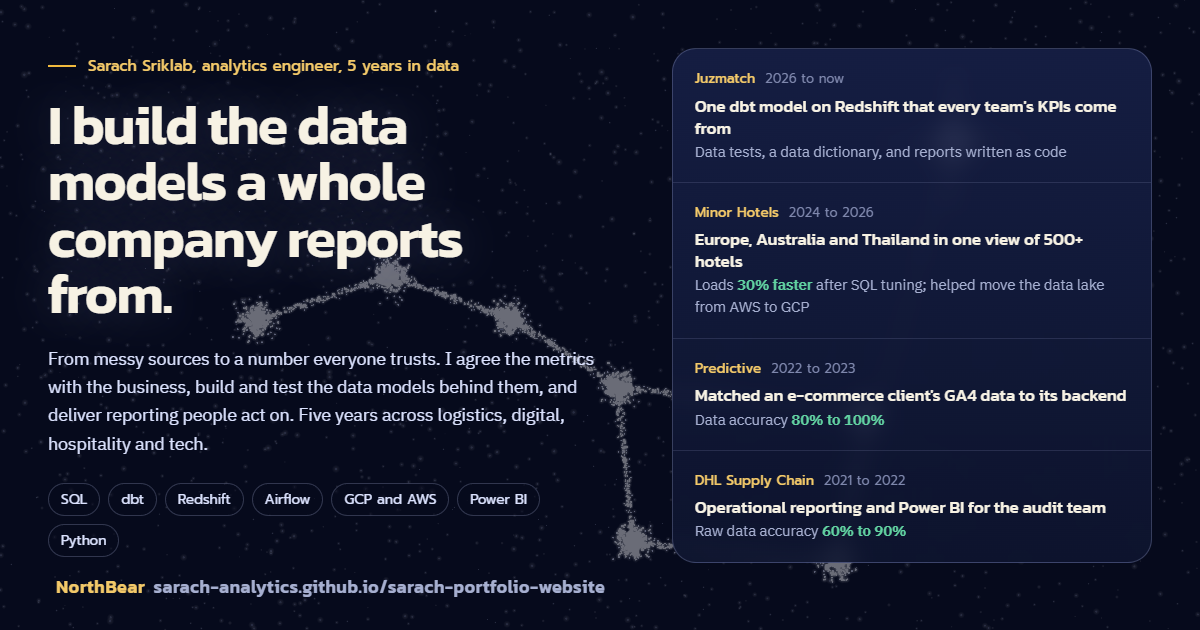
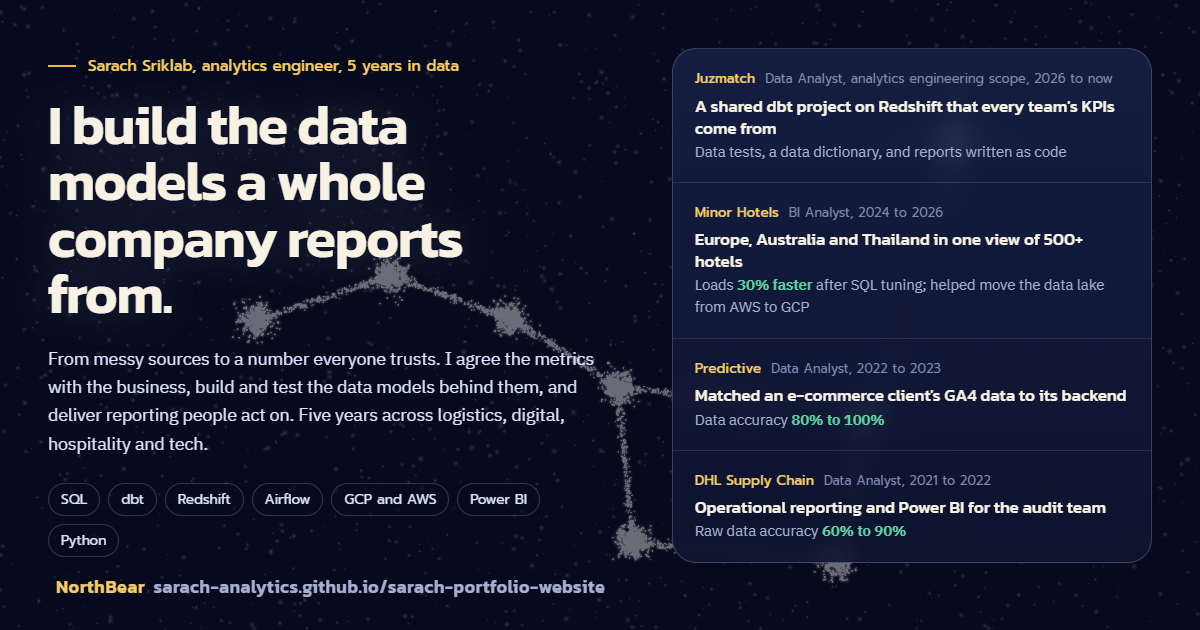
Fix credibility issues from the hiring and technical reviews
- "dbt project", not "one dbt model"; real job titles beside each job,
  Juzmatch shown as Data Analyst with analytics engineering scope
- Data story: booking-night grain, commission rate kept on the channel
  table, sold <= available test, a real duplicate case, matching SQL
- Story maths now answers the question: Net RevPAR shown, commission
  checked year over year (same mix, same rate), costs named as outside
  the data
- Phones see the work list right after the claim
- 500+ hotels on the CV too; hiring email matches the CV

diff --git a/index.html b/index.html
@@ -49,10 +49,10 @@
         </div>
       </div>
       <ol class="ledger hero-in" aria-label="Work history">
-        <li><span class="co">Juzmatch <small><span class="en">2026 to now</span><span class="th">2026 ถึงปัจจุบัน</span></small></span><b><span class="en">One dbt model on Redshift that every team's KPIs come from</span><span class="th">dbt model เดียวบน Redshift ที่ KPI ของทุกทีมมาจากที่นี่</span></b><span class="res"><span class="en">Data tests, a data dictionary, and reports written as code</span><span class="th">มี data test, data dictionary และรายงานที่เขียนเป็นโค้ด</span></span></li>
-        <li><span class="co">Minor Hotels <small>2024 <span class="en">to</span><span class="th">ถึง</span> 2026</small></span><b><span class="en">Europe, Australia and Thailand in one view of 500+ hotels</span><span class="th">ยุโรป ออสเตรเลีย และไทย รวมในรายงานเดียวของโรงแรม 500+ แห่ง</span></b><span class="res"><span class="en">Loads <em>30% faster</em> after SQL tuning; helped move the data lake from AWS to GCP</span><span class="th">โหลดเร็วขึ้น <em>30%</em> หลังปรับ SQL และช่วยย้าย data lake จาก AWS ไป GCP</span></span></li>
-        <li><span class="co">Predictive <small>2022 <span class="en">to</span><span class="th">ถึง</span> 2023</small></span><b><span class="en">Matched an e-commerce client's GA4 data to its backend</span><span class="th">จับคู่ข้อมูล GA4 ของลูกค้า e-commerce กับระบบหลังบ้าน</span></b><span class="res"><span class="en">Data accuracy <em>80% to 100%</em></span><span class="th">ความถูกต้องของข้อมูล <em>80% เป็น 100%</em></span></span></li>
-        <li><span class="co">DHL Supply Chain <small>2021 <span class="en">to</span><span class="th">ถึง</span> 2022</small></span><b><span class="en">Operational reporting and Power BI for the audit team</span><span class="th">ระบบรายงานงานปฏิบัติการ และ Power BI ให้ทีม audit</span></b><span class="res"><span class="en">Raw data accuracy <em>60% to 90%</em></span><span class="th">ความถูกต้องของข้อมูลดิบ <em>60% เป็น 90%</em></span></span></li>
+        <li><span class="co">Juzmatch <small><span class="en">Data Analyst, analytics engineering scope, 2026 to now</span><span class="th">Data Analyst งานสาย analytics engineering 2026 ถึงปัจจุบัน</span></small></span><b><span class="en">A shared dbt project on Redshift that every team's KPIs come from</span><span class="th">dbt project กลางบน Redshift ที่ KPI ของทุกทีมมาจากที่นี่</span></b><span class="res"><span class="en">Data tests, a data dictionary, and reports written as code</span><span class="th">มี data test, data dictionary และรายงานที่เขียนเป็นโค้ด</span></span></li>
+        <li><span class="co">Minor Hotels <small>BI Analyst, 2024 <span class="en">to</span><span class="th">ถึง</span> 2026</small></span><b><span class="en">Europe, Australia and Thailand in one view of 500+ hotels</span><span class="th">ยุโรป ออสเตรเลีย และไทย รวมในรายงานเดียวของโรงแรม 500+ แห่ง</span></b><span class="res"><span class="en">Loads <em>30% faster</em> after SQL tuning; helped move the data lake from AWS to GCP</span><span class="th">โหลดเร็วขึ้น <em>30%</em> หลังปรับ SQL และช่วยย้าย data lake จาก AWS ไป GCP</span></span></li>
+        <li><span class="co">Predictive <small>Data Analyst, 2022 <span class="en">to</span><span class="th">ถึง</span> 2023</small></span><b><span class="en">Matched an e-commerce client's GA4 data to its backend</span><span class="th">จับคู่ข้อมูล GA4 ของลูกค้า e-commerce กับระบบหลังบ้าน</span></b><span class="res"><span class="en">Data accuracy <em>80% to 100%</em></span><span class="th">ความถูกต้องของข้อมูล <em>80% เป็น 100%</em></span></span></li>
+        <li><span class="co">DHL Supply Chain <small>Data Analyst, 2021 <span class="en">to</span><span class="th">ถึง</span> 2022</small></span><b><span class="en">Operational reporting and Power BI for the audit team</span><span class="th">ระบบรายงานงานปฏิบัติการ และ Power BI ให้ทีม audit</span></b><span class="res"><span class="en">Raw data accuracy <em>60% to 90%</em></span><span class="th">ความถูกต้องของข้อมูลดิบ <em>60% เป็น 90%</em></span></span></li>
       </ol>
     </div>
   </section>
@@ -81,7 +81,7 @@
               <blockquote class="quote"><span class="en">"We sold more rooms this year. So why isn't more money left over?"</span><span class="th">"ปีนี้ขายห้องได้มากขึ้น แต่ทำไมเงินเหลือไม่มากขึ้น"</span></blockquote>
               <p><span class="en">My first job is to turn that into something we can measure. Here is the raw material: every room night sold in the last 12 months.</span><span class="th">งานแรกของผมคือเปลี่ยนคำถามนี้ให้เป็นสิ่งที่วัดได้ และนี่คือวัตถุดิบ: ห้องพักทุกคืนที่ขายได้ใน 12 เดือนล่าสุด</span></p>
               <div class="split">
-                <div><span class="who me"><span class="en">Me</span><span class="th">ผม</span></span><span class="en">Picked the metric: room revenue after booking commission. Revenue alone hides what it cost to win the guest.</span><span class="th">เลือก metric คือรายได้ห้องหลังหักค่าคอมมิชชัน เพราะรายได้อย่างเดียวซ่อนต้นทุนการได้ลูกค้ามา</span></div>
+                <div><span class="who me"><span class="en">Me</span><span class="th">ผม</span></span><span class="en">Picked the metric: Net RevPAR, room revenue after booking commission per available room. Revenue alone hides what it cost to win the guest. Staff and other costs come later, from the P&amp;L.</span><span class="th">เลือก metric คือ Net RevPAR รายได้ห้องหลังหักค่าคอมมิชชันต่อห้องที่ว่างขาย เพราะรายได้อย่างเดียวซ่อนต้นทุนการได้ลูกค้ามา ส่วนค่าพนักงานและต้นทุนอื่นดูทีหลังจากงบกำไรขาดทุน</span></div>
                 <div class="ai-side"><span class="who ai">AI</span><span class="en">Listed eight candidate metrics. Most measured volume, not what is left over, so I cut them.</span><span class="th">ลิสต์ metric มา 8 ตัว ส่วนใหญ่วัดปริมาณ ไม่ได้วัดเงินที่เหลือ ผมเลยตัดออก</span></div>
               </div>
             </div>
@@ -93,13 +93,13 @@
               <h3><span class="en">The export is messy. AI drafts the clean-up, I check it.</span><span class="th">ไฟล์ export รก AI ร่างวิธีล้าง ผมตรวจ</span></h3>
               <p><span class="en">Dates in three formats, prices saved as text, a night counted twice, channel names spelled four ways. Once it is clean, every night fits in its square: one dot for each of the 30 rooms sold. Point at a night.</span><span class="th">วันที่ 3 รูปแบบ ราคาเก็บเป็นข้อความ คืนเดียวนับซ้ำ ชื่อช่องทางสะกด 4 แบบ พอล้างแล้ว ทุกคืนก็ลงช่องของมันพอดี 1 จุดต่อ 1 ห้องที่ขายได้ จาก 30 ห้อง ลองชี้ที่คืนไหนก็ได้</span></p>
               <ul class="checks">
-                <li><i data-i="check"></i><span class="en">No night has more than 30 rooms</span><span class="th">ไม่มีคืนไหนเกิน 30 ห้อง</span></li>
+                <li><i data-i="check"></i><span class="en">Rooms sold never exceed rooms available that night</span><span class="th">ห้องที่ขายไม่เกินห้องที่ว่างในคืนนั้น</span></li>
                 <li><i data-i="check"></i><span class="en">Revenue matches the nightly report</span><span class="th">รายได้ตรงกับรายงานรายคืน</span></li>
                 <li><i data-i="check"></i><span class="en">No night is counted twice</span><span class="th">ไม่มีคืนไหนถูกนับซ้ำ</span></li>
               </ul>
               <div class="split">
                 <div><span class="who me"><span class="en">Me</span><span class="th">ผม</span></span><span class="en">Wrote the rules for "clean" as tests, then checked every total against the nightly report.</span><span class="th">เขียนกฎว่า "สะอาด" คืออะไรเป็นเทสต์ แล้วเช็กยอดรวมทุกตัวกับรายงานรายคืน</span></div>
-                <div class="ai-side"><span class="who ai">AI</span><span class="en">Drafted the clean-up SQL. It removed duplicates by booking ID and missed a night split across two IDs. My test caught it.</span><span class="th">ร่าง SQL ล้างข้อมูล แต่ตัดแถวซ้ำด้วย booking ID เลยพลาดคืนที่ถูกแยกเป็น 2 ID เทสต์ของผมจับได้</span></div>
+                <div class="ai-side"><span class="who ai">AI</span><span class="en">Drafted the clean-up SQL. It removed duplicates by booking ID and missed a modified booking exported twice under two IDs. My uniqueness test on room and night caught it.</span><span class="th">ร่าง SQL ล้างข้อมูล แต่ตัดแถวซ้ำด้วย booking ID เลยพลาดการจองที่ถูกแก้ไขแล้ว export ออกมา 2 ครั้งด้วย 2 ID เทสต์ความไม่ซ้ำของห้องกับคืนของผมจับได้</span></div>
               </div>
             </div>
           </article>
@@ -108,10 +108,10 @@
             <div class="step-card">
               <p class="step-no">03</p>
               <h3><span class="en">One fact table, four ways to slice it.</span><span class="th">fact table เดียว หั่นได้ 4 มุม</span></h3>
-              <p><span class="en">I model the nights as one table of facts, with date, channel, guest market and room type around it. Slicing by channel takes one line, and it is where this story turns.</span><span class="th">ผมออกแบบข้อมูลรายคืนเป็น fact table เดียว มีวันที่ ช่องทาง ตลาดลูกค้า และประเภทห้องอยู่รอบ ๆ หั่นตามช่องทางใช้แค่บรรทัดเดียว และเรื่องนี้เริ่มพลิกตรงนี้</span></p>
-              <div class="schema"><span class="fact">fct_nightly</span><span>dim_date</span><span>dim_channel</span><span>dim_market</span><span>dim_room_type</span></div>
+              <p><span class="en">I model the stays as one table of facts, one row per booking per night, with date, channel, guest market and room type around it. Slicing by channel takes one line, and it is where this story turns.</span><span class="th">ผมออกแบบข้อมูลการเข้าพักเป็น fact table เดียว 1 แถวต่อการจองต่อคืน มีวันที่ ช่องทาง ตลาดลูกค้า และประเภทห้องอยู่รอบ ๆ หั่นตามช่องทางใช้แค่บรรทัดเดียว และเรื่องนี้เริ่มพลิกตรงนี้</span></p>
+              <div class="schema"><span class="fact">fct_room_nights</span><span>dim_date</span><span>dim_channel</span><span>dim_market</span><span>dim_room_type</span></div>
               <div class="split">
-                <div><span class="who me"><span class="en">Me</span><span class="th">ผม</span></span><span class="en">Chose the grain (one row per night per channel) and how the tables join. That choice is why the channel question takes one line.</span><span class="th">เลือกระดับข้อมูล (1 แถวต่อคืนต่อช่องทาง) และวิธี join การเลือกนี้ทำให้คำถามเรื่องช่องทางใช้แค่บรรทัดเดียว</span></div>
+                <div><span class="who me"><span class="en">Me</span><span class="th">ผม</span></span><span class="en">Chose the grain (one row per booking per night), so channel, market and room type all stay sliceable, and kept commission rates in the channel table, not on the fact.</span><span class="th">เลือกระดับข้อมูล (1 แถวต่อการจองต่อคืน) เพื่อให้หั่นตามช่องทาง ตลาด และประเภทห้องได้ครบ และเก็บอัตราค่าคอมไว้ในตารางช่องทาง ไม่ใส่ไว้ใน fact</span></div>
                 <div class="ai-side"><span class="who ai">AI</span><span class="en">Typed the dbt model and tests from my spec. In review I rejected a join that would have counted revenue twice.</span><span class="th">เขียน dbt model และเทสต์ตามสเปกของผม ตอนรีวิวผมตีกลับ join ที่จะทำให้รายได้ถูกนับซ้ำ</span></div>
               </div>
             </div>
@@ -121,7 +121,7 @@
             <div class="step-card">
               <p class="step-no">04</p>
               <h3><span class="en">More rooms, more revenue. That part is true.</span><span class="th">ห้องมากขึ้น รายได้มากขึ้น ส่วนนั้นจริง</span></h3>
-              <p><span class="en">Each column is a month of room nights; the dashed mark is the same month last year. Occupancy rose to <b data-v="occ">66.8%</b>, room revenue grew <b data-v="roomGrowth">4.4%</b> and RevPAR reached <b data-v="revpar">฿2,345</b>.</span><span class="th">แต่ละคอลัมน์คือห้องพักของ 1 เดือน เส้นประคือเดือนเดียวกันปีก่อน อัตราเข้าพักขึ้นเป็น <b data-v="occ">66.8%</b> รายได้ห้องโต <b data-v="roomGrowth">4.4%</b> และ RevPAR ขึ้นไปถึง <b data-v="revpar">฿2,345</b></span></p>
+              <p><span class="en">Each column is a month of room nights; the dashed mark is the same month last year. Occupancy rose to <b data-v="occ">66.8%</b>, room revenue grew <b data-v="roomGrowth">4.4%</b> and RevPAR reached <b data-v="revpar">฿2,345</b>. Net RevPAR, after commission, reached <b>฿2,095</b>: also up 4.2%.</span><span class="th">แต่ละคอลัมน์คือห้องพักของ 1 เดือน เส้นประคือเดือนเดียวกันปีก่อน อัตราเข้าพักขึ้นเป็น <b data-v="occ">66.8%</b> รายได้ห้องโต <b data-v="roomGrowth">4.4%</b> และ RevPAR ขึ้นไปถึง <b data-v="revpar">฿2,345</b> ส่วน Net RevPAR หลังหักค่าคอมอยู่ที่ <b>฿2,095</b> โตขึ้น 4.2% เท่ากัน</span></p>
               <div class="kpis" id="kpis"></div>
               <button class="table-toggle" type="button" data-table="trend-table" aria-expanded="false"><span class="en">Show the numbers as a table</span><span class="th">ดูตัวเลขเป็นตาราง</span></button>
               <div class="table-wrap" id="trend-table"></div>
@@ -145,22 +145,23 @@
                     <p><span class="en">Booking sites took <b data-v="comm">฿2.69M</b> in commission over the last 12 months, <b data-v="commPct">10.7%</b> of room revenue. That is the same money as <b class="rust" data-v="pileNights">769</b> free room nights: the red dots. <b data-v="topComm">Booking.com</b> took the most.</span><span class="th">เว็บจองเก็บค่าคอมไป <b data-v="comm">฿2.69M</b> ใน 12 เดือนล่าสุด คิดเป็น <b data-v="commPct">10.7%</b> ของรายได้ห้อง เท่ากับยกห้องพักให้ฟรี <b class="rust" data-v="pileNights">769</b> คืน คือจุดสีแดง โดย <b data-v="topComm">Booking.com</b> เก็บไปมากที่สุด</span></p>
                     <details>
                       <summary><span class="en">Show the SQL and the rows</span><span class="th">ดู SQL และแถวข้อมูล</span></summary>
-<pre><code>select channel,
-       sum(room_revenue)                        as revenue,
-       sum(room_revenue * commission_pct / 100) as commission
-from fct_nightly
-where business_date between '2025-06-01' and '2026-05-31'
-group by channel
+<pre><code>select c.channel,
+       sum(f.room_revenue)                     as revenue,
+       sum(f.room_revenue * c.commission_rate) as commission
+from fct_room_nights f
+join dim_channel c on c.channel_key = f.channel_key
+where f.stay_date between '2025-06-01' and '2026-05-31'
+group by c.channel
 order by commission desc;</code></pre>
                       <div id="echo-rows"></div>
-                      <p class="small muted"><span class="en">Source: 1,825 rows of fct_nightly, one per night per channel.</span><span class="th">ที่มา: 1,825 แถวจาก fct_nightly หนึ่งแถวต่อคืนต่อช่องทาง</span></p>
+                      <p class="small muted"><span class="en">Source: fct_room_nights, 7,169 room nights, joined to dim_channel for the commission rate.</span><span class="th">ที่มา: fct_room_nights 7,169 คืนห้องพัก join กับ dim_channel เพื่อดึงอัตราค่าคอม</span></p>
                     </details>
                   </div>
                 </div>
               </div>
-              <p><span class="en"><b data-v="otaShare">69%</b> of rooms came through Agoda, Booking.com and Expedia at 14 to 18% commission, and that bill grows every time revenue does.</span><span class="th">ห้อง <b data-v="otaShare">69%</b> มาจาก Agoda, Booking.com และ Expedia ที่เก็บค่าคอม 14 ถึง 18% และค่าคอมก้อนนี้โตขึ้นทุกครั้งที่รายได้โต</span></p>
+              <p><span class="en">Last year the bill was ฿2.58M, and booking sites brought about <b data-v="otaShare">69%</b> of rooms in both years. So the leak did not get worse: it grows in step with revenue, about ฿11 of every ฿100. The rest of the owner's gap sits in costs like staff and utilities, which this data does not cover. Inside the data, the lever is the channel mix.</span><span class="th">ปีก่อนค่าคอมอยู่ที่ ฿2.58M และห้องราว <b data-v="otaShare">69%</b> มาจากเว็บจองทั้งสองปี แปลว่ารูรั่วไม่ได้แย่ลง แต่โตตามรายได้ ประมาณ ฿11 ในทุก ฿100 ส่วนที่เหลือของคำถามเจ้าของอยู่ในต้นทุนอย่างค่าพนักงานและค่าน้ำไฟ ซึ่งข้อมูลชุดนี้ไม่มี ในข้อมูลที่มี คันโยกคือสัดส่วนช่องทาง</span></p>
               <div class="split">
-                <div><span class="who me"><span class="en">Me</span><span class="th">ผม</span></span><span class="en">Saw that the leak is the channel mix, not the price, and checked Echo's number against last year's commission report.</span><span class="th">เห็นว่ารูรั่วอยู่ที่สัดส่วนช่องทาง ไม่ใช่ราคา แล้วเช็กตัวเลขของ Echo กับรายงานค่าคอมของปีก่อน</span></div>
+                <div><span class="who me"><span class="en">Me</span><span class="th">ผม</span></span><span class="en">Checked whether the leak grew. It did not: same mix, same rates. So the lever is the channel mix, not price, and I said plainly that costs sit outside this data.</span><span class="th">เช็กว่ารูรั่วโตขึ้นไหม คำตอบคือไม่ สัดส่วนเดิม อัตราเดิม คันโยกจึงเป็นสัดส่วนช่องทาง ไม่ใช่ราคา และบอกตรง ๆ ว่าต้นทุนอยู่นอกข้อมูลชุดนี้</span></div>
                 <div class="ai-side"><span class="who ai">Echo</span><span class="en">Turned the owner's question into SQL, ran it, and showed the rows behind the answer.</span><span class="th">แปลงคำถามของเจ้าของเป็น SQL รันให้ และแสดงแถวข้อมูลเบื้องหลังคำตอบ</span></div>
               </div>
             </div>
@@ -219,8 +220,8 @@ order by commission desc;</code></pre>
         <div class="row">
           <div class="row-kind"><b><span class="en">Day-job work</span><span class="th">งานประจำ</span></b>Juzmatch, 2026</div>
           <div>
-            <h3><span class="en">One model everyone trusts</span><span class="th">โมเดลเดียวที่ทุกทีมเชื่อ</span></h3>
-            <p><span class="en">Defining KPIs with each team, moving report logic into one dbt model on Redshift, and writing reports as code.</span><span class="th">กำหนด KPI กับแต่ละทีม ย้าย logic ของรายงานเข้า dbt model เดียวบน Redshift และเขียนรายงานเป็นโค้ด</span></p>
+            <h3><span class="en">One set of numbers every team trusts</span><span class="th">ตัวเลขชุดเดียวที่ทุกทีมเชื่อ</span></h3>
+            <p><span class="en">Defining KPIs with each team, moving report logic into a shared dbt project on Redshift, and writing reports as code.</span><span class="th">กำหนด KPI กับแต่ละทีม ย้าย logic ของรายงานเข้า dbt project กลางบน Redshift และเขียนรายงานเป็นโค้ด</span></p>
           </div>
           <div class="row-links"><a class="text-link" href="projects.html"><span class="en">Read the story</span><span class="th">อ่านเรื่องนี้</span></a></div>
         </div>
@@ -315,7 +316,7 @@ order by commission desc;</code></pre>
         <div>
           <h2><span class="en">Hiring, or have a project?</span><span class="th">กำลังหาคน <span style="white-space:nowrap">หรือมีโปรเจกต์?</span></span></h2>
           <div class="two-ways">
-            <div><h3 class="h4"><span class="en">Hiring for analytics engineering</span><span class="th">หาคนทำ analytics engineering</span></h3><p><span class="en">My CV has the full history. Message me on LinkedIn or by email.</span><span class="th">ประวัติเต็มอยู่ใน CV ทักมาทาง LinkedIn หรืออีเมลได้เลย</span></p></div>
+            <div><h3 class="h4"><span class="en">Hiring for analytics engineering</span><span class="th">หาคนทำ analytics engineering</span></h3><p><span class="en">My CV has the full history. Message me on LinkedIn or email <a href="mailto:sarach.srik@gmail.com">sarach.srik@gmail.com</a>.</span><span class="th">ประวัติเต็มอยู่ใน CV ทักมาทาง LinkedIn หรืออีเมล <a href="mailto:sarach.srik@gmail.com">sarach.srik@gmail.com</a> ได้เลย</span></p></div>
             <div><h3 class="h4"><span class="en">A project for your business</span><span class="th">โปรเจกต์ให้ธุรกิจของคุณ</span></h3><p><span class="en">A dashboard, a data health check, an AI agent like Echo, or a workshop. Use the form.</span><span class="th">dashboard, ตรวจสุขภาพข้อมูล, AI agent แบบ Echo หรือเวิร์กช็อป กรอกฟอร์มได้เลย</span></p></div>
           </div>
           <p class="small muted" style="margin-top:18px"><span class="en">I reply within two working days.</span><span class="th">ผมตอบกลับภายใน 2 วันทำการ</span></p>

diff --git a/projects.html b/projects.html
@@ -50,12 +50,12 @@
     <div class="rows" id="work-rows">
 
       <div class="row" data-kind="dayjob">
-        <div class="row-kind"><b><span class="en">Day-job work</span><span class="th">งานประจำ</span></b>Juzmatch<br><span class="en">Data Analyst, Jul 2026 to now</span><span class="th">Data Analyst ก.ค. 2026 ถึงปัจจุบัน</span></div>
+        <div class="row-kind"><b><span class="en">Day-job work</span><span class="th">งานประจำ</span></b>Juzmatch<br><span class="en">Data Analyst (analytics engineering scope), Jul 2026 to now</span><span class="th">Data Analyst (งานสาย analytics engineering) ก.ค. 2026 ถึงปัจจุบัน</span></div>
         <div>
-          <h2 class="h3"><span class="en">One model everyone trusts</span><span class="th">โมเดลเดียวที่ทุกทีมเชื่อ</span></h2>
+          <h2 class="h3"><span class="en">One set of numbers every team trusts</span><span class="th">ตัวเลขชุดเดียวที่ทุกทีมเชื่อ</span></h2>
           <ul class="facts">
             <li><span class="en">Defining business KPIs with each team so there is one source of truth</span><span class="th">กำหนด KPI กับแต่ละทีม ให้มีแหล่งความจริงเดียว</span></li>
-            <li><span class="en">Moving report logic into a central dbt model on Redshift, with reports written as code in Evidence</span><span class="th">ย้าย logic ของรายงานเข้า dbt model กลางบน Redshift และเขียนรายงานเป็นโค้ดด้วย Evidence</span></li>
+            <li><span class="en">Moving report logic into a shared dbt project on Redshift, with reports written as code in Evidence</span><span class="th">ย้าย logic ของรายงานเข้า dbt project กลางบน Redshift และเขียนรายงานเป็นโค้ดด้วย Evidence</span></li>
             <li><span class="en">Data-quality checks, a data dictionary, and training so teams can serve themselves</span><span class="th">ตรวจคุณภาพข้อมูล ทำ data dictionary และสอนให้ทีมดึงข้อมูลเองได้</span></li>
           </ul>
           <div class="tags"><span>dbt</span><span>Redshift</span><span>S3</span><span>Evidence</span><span>git</span></div>

diff --git a/about.html b/about.html
@@ -56,10 +56,10 @@
       <ol class="timeline">
         <li class="now">
           <p class="when"><span class="en">Jul 2026 to now</span><span class="th">ก.ค. 2026 ถึงปัจจุบัน</span></p>
-          <h3>Data Analyst, Juzmatch</h3>
+          <h3>Data Analyst (analytics engineering scope), Juzmatch</h3>
           <ul>
             <li><span class="en">Define and document KPIs with each team, so there is one source of truth</span><span class="th">กำหนดและบันทึก KPI ร่วมกับแต่ละทีม ให้มีแหล่งความจริงเดียว</span></li>
-            <li><span class="en">Central dbt model on Redshift (data lands in S3), reports as code in Evidence, all in git</span><span class="th">dbt model กลางบน Redshift (ข้อมูลเข้า S3) รายงานเป็นโค้ดด้วย Evidence ทั้งหมดอยู่ใน git</span></li>
+            <li><span class="en">A shared dbt project on Redshift (data lands in S3), reports as code in Evidence, all in git</span><span class="th">dbt project กลางบน Redshift (ข้อมูลเข้า S3) รายงานเป็นโค้ดด้วย Evidence ทั้งหมดอยู่ใน git</span></li>
             <li><span class="en">Data quality, the data dictionary, and training teams to serve themselves</span><span class="th">คุณภาพข้อมูล data dictionary และสอนทีมให้ดึงข้อมูลเองได้</span></li>
           </ul>
         </li>

diff --git a/assets/nb/nb.css b/assets/nb/nb.css
@@ -768,3 +768,15 @@ html.th .hero-hm h1 { max-width: 14ch; font-size: clamp(2.4rem, 4.2vw, 4rem); li
 .two-ways > div { border-left: 2px solid var(--gold); padding-left: 16px; }
 .two-ways h3 { color: var(--navy-deep); margin-bottom: 4px; }
 .two-ways p { color: var(--muted); }
+/* phones: show the work list right after the claim, before the tool chips and buttons */
+@media (max-width: 940px) {
+  .hero-hm .hero-grid { gap: 0; }
+  .hero-hm .hero-copy { display: contents; }
+  .hero-hm .hero-copy > .kicker { order: 1; }
+  .hero-hm .hero-copy > h1 { order: 2; }
+  .hero-hm .hero-copy > .lead { order: 3; margin-top: 18px; }
+  .hero-hm .ledger { order: 4; margin-top: 24px; }
+  .hero-hm .hero-copy > .stack { order: 5; }
+  .hero-hm .hero-copy > .btn-row { order: 6; }
+  .hero-hm .hero-stage { order: 7; }
+}

diff --git a/docs/make_cv.py b/docs/make_cv.py
@@ -16,17 +16,17 @@ supply chain, digital analytics, hospitality and a modern data stack (dbt, Redsh
 tests and documentation, with every result human-reviewed. Founder of NorthBear, a data and AI education and consulting brand.</p>
 
 <h2>Experience</h2>
-<table><tr><td class="role">Data Analyst, <b>Juzmatch</b></td><td class="when">Jul 2026 – Present</td></tr></table>
+<table><tr><td class="role">Data Analyst (analytics engineering scope), <b>Juzmatch</b></td><td class="when">Jul 2026 – Present</td></tr></table>
 <ul>
 <li>Define and document business KPIs with stakeholders to create a single source of truth.</li>
-<li>Move report logic into a central dbt model on Redshift (data landed in S3); build reports as code in Evidence, version-controlled in git.</li>
+<li>Move report logic into a shared dbt project on Redshift (data landed in S3); build reports as code in Evidence, version-controlled in git.</li>
 <li>Monitor data quality, maintain the data dictionary, and train business users on self-service reporting.</li>
 <li>Deliver ad-hoc analysis that ends in a recommendation, not only a report.</li>
 </ul>
 
 <table><tr><td class="role">Business Intelligence Analyst, <b>Minor Hotels</b></td><td class="when">Feb 2024 – Jun 2026</td></tr></table>
 <ul>
-<li>Consolidated Europe, Australia and Thailand data into one performance dashboard for a group of 530+ hotels.</li>
+<li>Consolidated Europe, Australia and Thailand data into one performance dashboard for a group of 500+ hotels.</li>
 <li>Designed performance tracking against budget and forecast, with a watchlist and revenue breakdown for underperforming hotels.</li>
 <li>Integrated STR competitor data for benchmarking; made dashboards load 30% faster through SQL optimisation.</li>
 <li>Contributed to the AWS to GCP data lake migration (medallion architecture, Airflow, dbt).</li>
